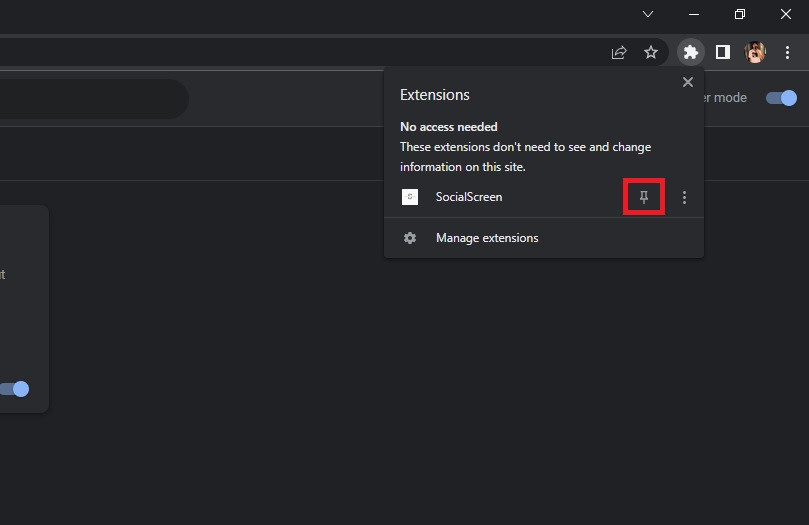
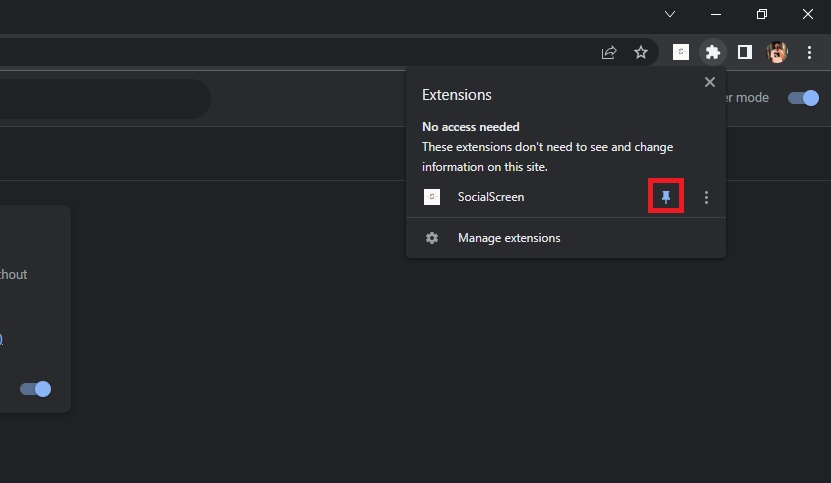
added improved installation guide, added some button css

diff --git a/src/popup.css b/src/popup.css
@@ -155,3 +155,14 @@ body {
     float: right; /* Moves the button to the right */
   }
   
+  #customFilterContainer .addCustomWordButton:hover {
+    background-color: #bbb;
+  }
+
+  #customFilterContainer .applyFiltersButton:hover {
+    background-color: #bbb;
+  }
+
+  #customFilterContainer .showCustomFiltersButton:hover {
+    background-color: #bbb;
+  }

diff --git a/README.md b/README.md
@@ -10,25 +10,48 @@ SocialScreen is currently in "pending review" status in the Chrome Web Store.
 For users to be able to install the extension, they need to follow these steps:
 
 1. Download the code as a zip file from this repository. 
+
 <p align = "center"> <img src="src/installation guide/1.jpg"> </p>
+
 2. Extract the contents in the desired folder.
+
 <p align = "center"> <img src="src/installation guide/2.jpg"> </p>
+
 3. Open the Chromium browser where you wish to install the extension.
+
 <p align = "center"> <img src="src/installation guide/3.jpg"> </p>
-4. Click on the 3 dots on the upper right corner where your options are. 
+
+4. Click on the 3 dots on the upper right corner where your options are.
+
 <p align = "center"> <img src="src/installation guide/4.jpg"> </p>
+
 5. Click on "Extensions" and then "Manage Extensions"
+
 <p align = "center"> <img src="src/installation guide/5.jpg"> </p>
+
 6. On the top-right corner, toggle "Developer Mode"
+
 <p align = "center"> <img src="src/installation guide/6.jpg"> </p>
+
 7. On the top-left corner, click on "Load Unpacked" and find the folder of the extracted zip file for SocialScreen, it should be named "socialscreen-main".
+
 <p align = "center"> <img src="src/installation guide/7.jpg"> </p>
+
 8. Open the "socialscreen-main" folder to see another one with the same name, select that folder.
+
 <p align = "center"> <img src="src/installation guide/8.jpg"> </p>
+
 9. Now SocialScreen should appear when you click on the puzzle piece icon for Extensions.
+
 <p align = "center"> <img src="src/installation guide/9.jpg"> </p>
+
 10. Pin the SocialScreen extension for ease-of-use.
+
 <p align = "center"> <img src="src/installation guide/10.jpg"> </p>
+
+11. Enjoy!
+
+<p align = "center"> <img src="src/installation guide/11.jpg"> </p>
 
 
 ## User Guide
